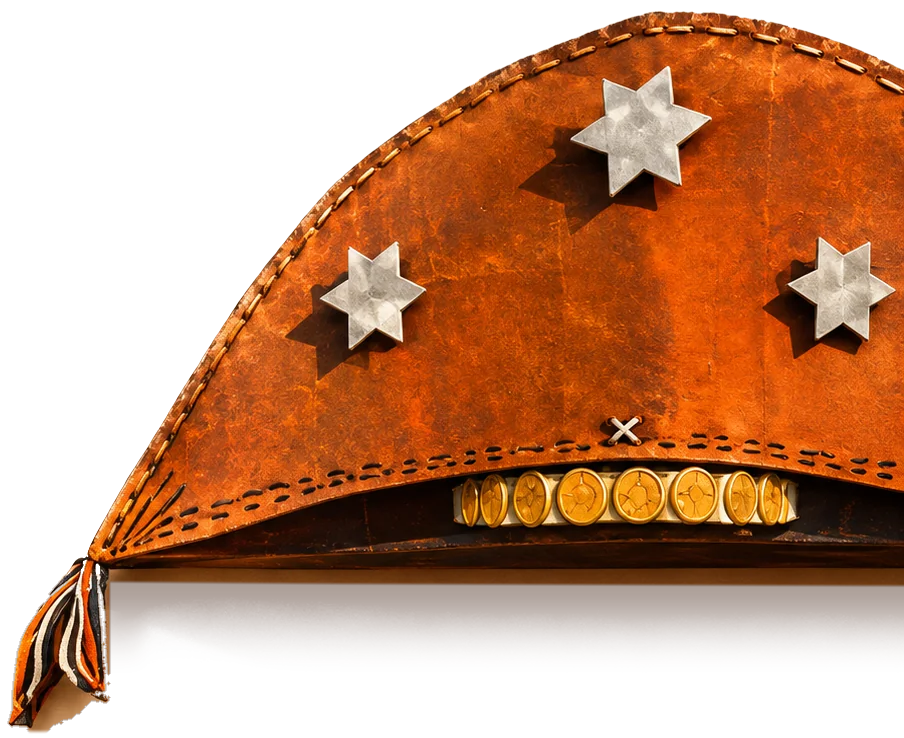
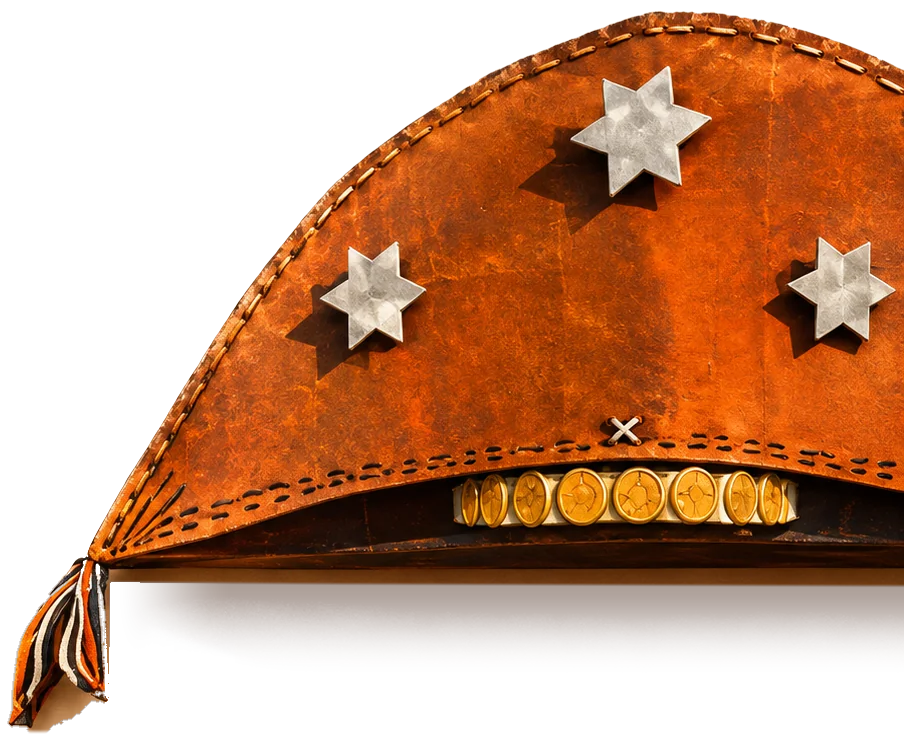
Fix full-bleed right edge on mobile hero pot and Lampiao hat

Changed region(s): [[0.1239, 0.7791, 0.2168, 0.8726], [0.0929, 0.8726, 0.1239, 0.935]]

diff --git a/index.html b/index.html
@@ -6977,21 +6977,21 @@
         overflow-x: clip;
       }
       #estrada .hat-artifact-wrap {
-        width: min(100%, 360px) !important;
-        max-width: 100% !important;
-        margin-left: auto !important;
-        margin-right: auto !important;
+        width: calc(100% + var(--gutter)) !important;
+        max-width: none !important;
+        margin-left: 0 !important;
+        margin-right: calc(-1 * var(--gutter)) !important;
       }
     }
 
     @media (max-width: 767px) {
-      /* 1. Capa Hero Mobile: Eixo Editorial Centralizado + Cofre Sem Emenda */
+      /* 1. Capa Hero Mobile: Eixo Editorial Centralizado + Cofre Full-Bleed Sem Borda */
       .hero-cinema {
         background: radial-gradient(circle at 50% 68%, #FFF6E6 0%, #FCE6C5 62%, #F6D8AE 100%);
         padding-top: env(safe-area-inset-top, 0px);
       }
       .hero-cinema__overlay {
-        padding: clamp(28px, 7vw, 40px) var(--gutter) 8px;
+        padding: clamp(28px, 7vw, 40px) var(--gutter) 4px;
       }
       .hero-cinema__copy {
         display: flex;
@@ -7023,19 +7023,22 @@
         max-width: 30ch;
       }
       .hero-cinema__media {
-        margin-top: 4px;
-        padding: 4px 10px 20px;
+        margin: 4px 0 0;
+        padding: 0;
+        width: 100%;
         -webkit-mask-image: none;
         mask-image: none;
-        display: flex;
-        justify-content: center;
+        display: block;
       }
       .hero-cinema__img {
-        width: min(100%, 380px);
-        max-height: 350px;
+        display: block;
+        width: 100%;
+        max-width: none;
+        max-height: none;
         height: auto;
-        object-fit: contain;
-        filter: drop-shadow(0 18px 28px rgba(58, 31, 13, 0.18));
+        margin: 0;
+        object-fit: cover;
+        filter: drop-shadow(0 14px 24px rgba(58, 31, 13, 0.15));
       }
 
       /* 2. Cena 01 (#estrada) & Divisores Simétricos no Eixo Central */
